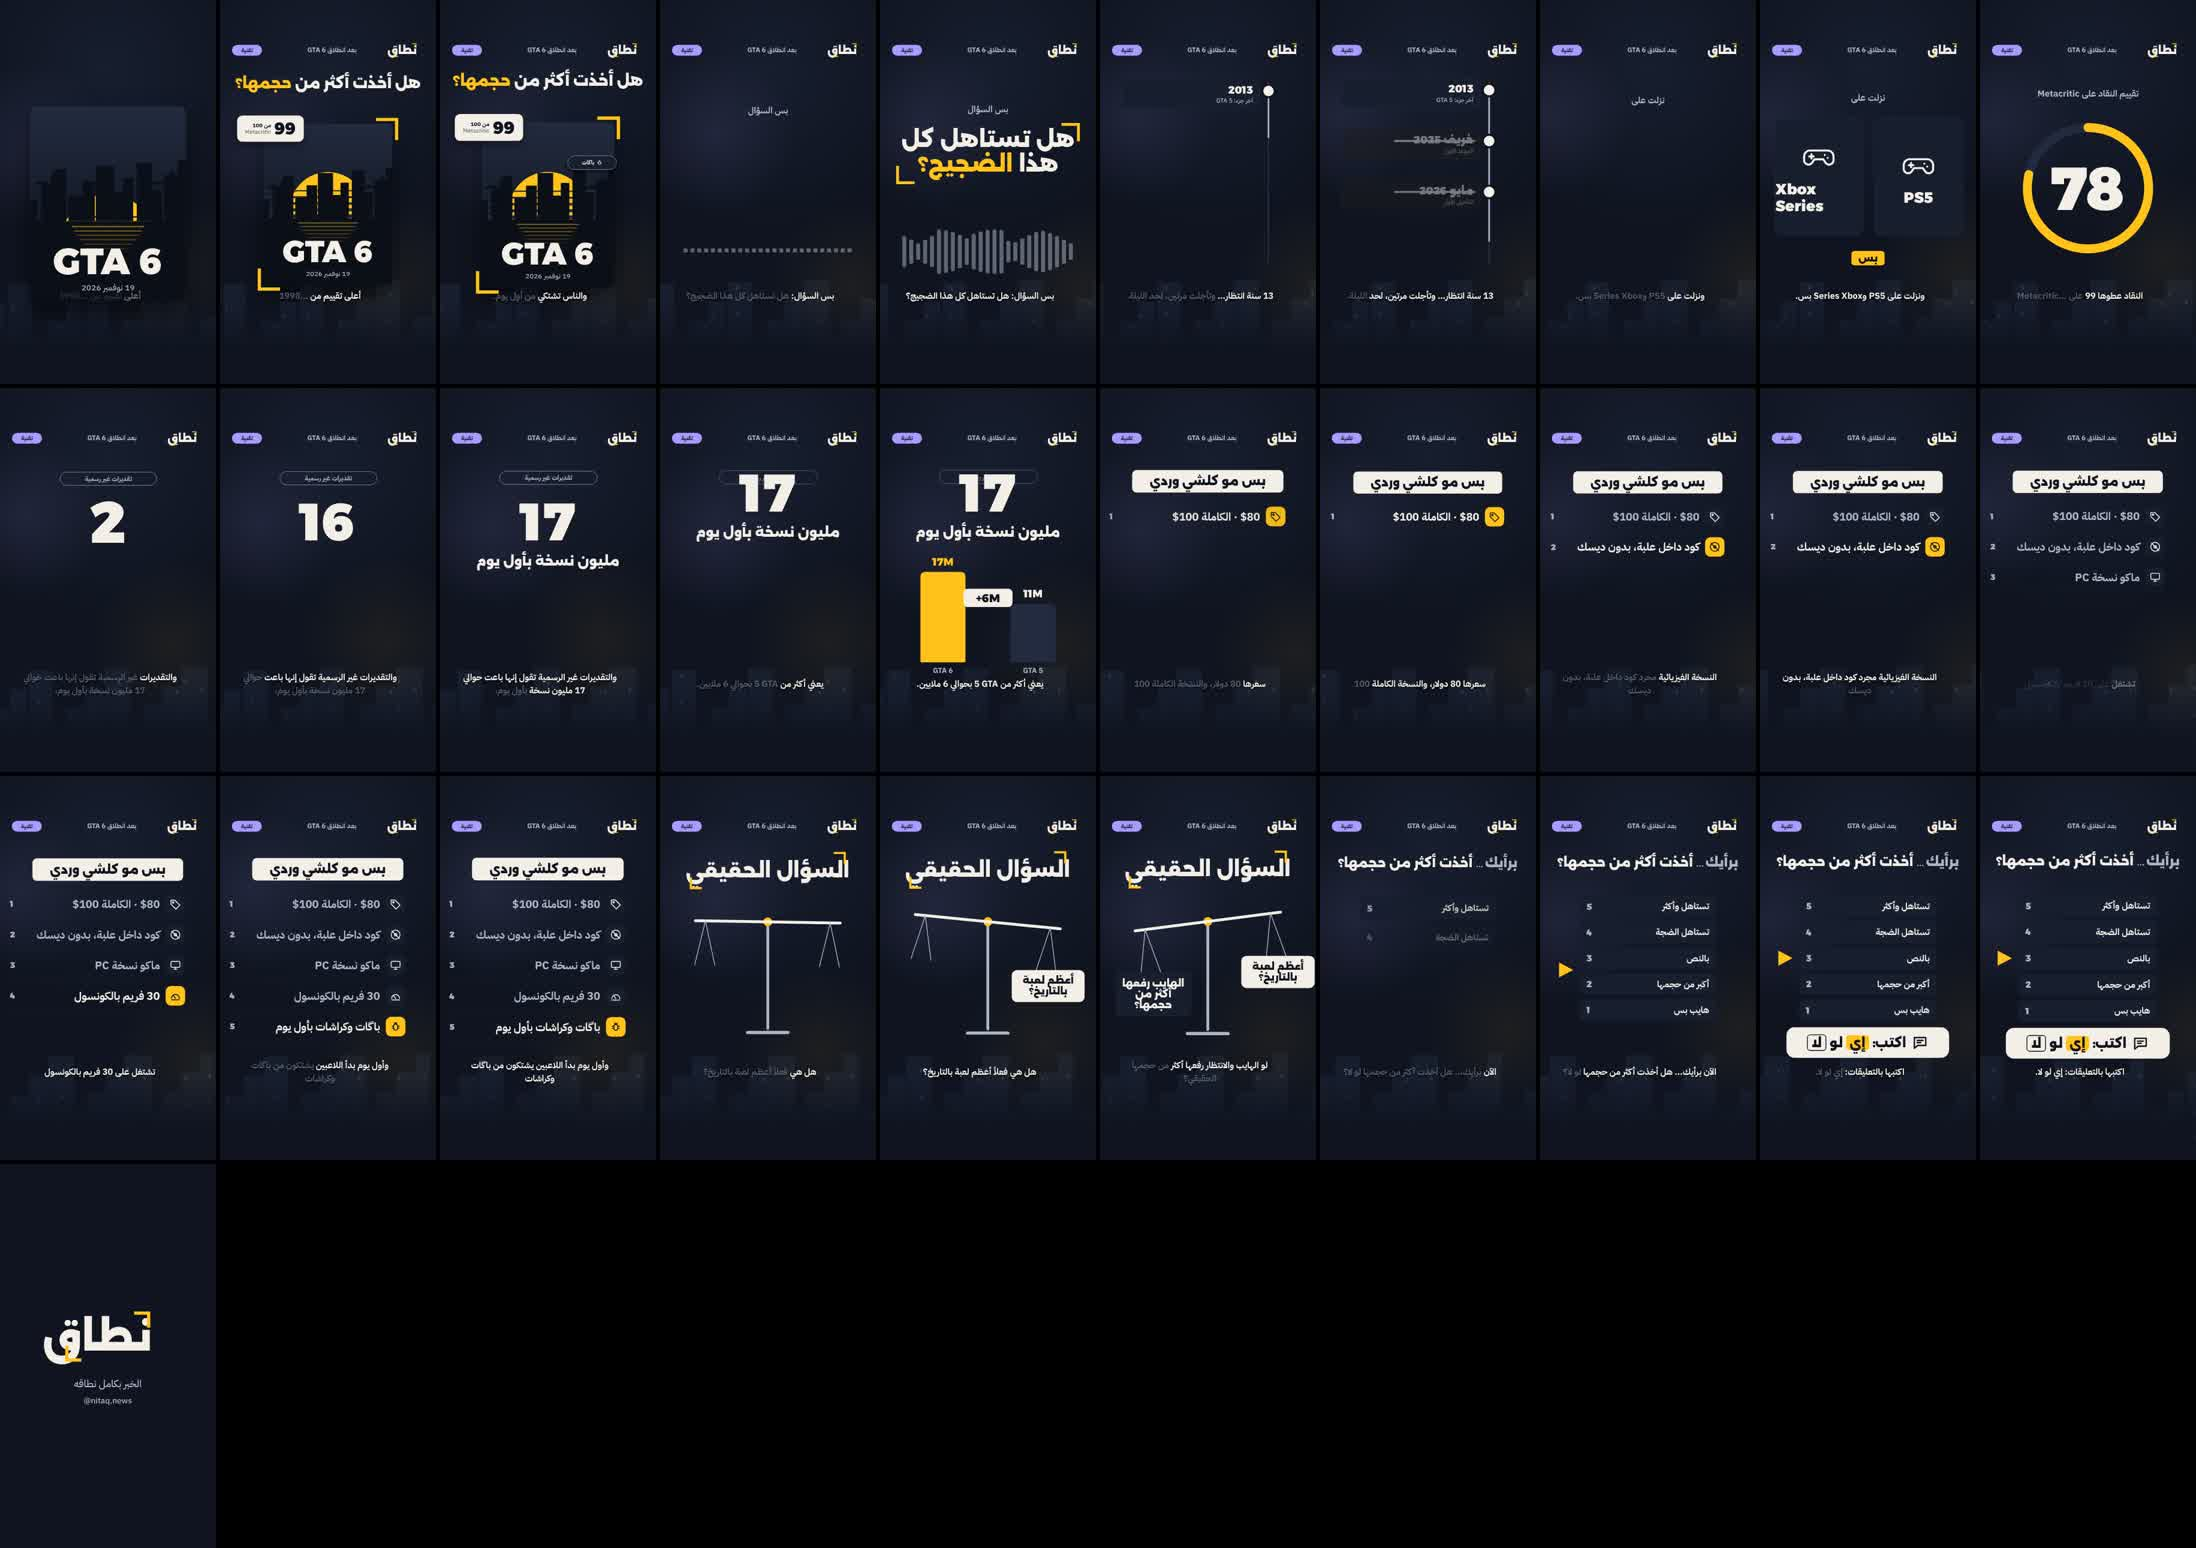
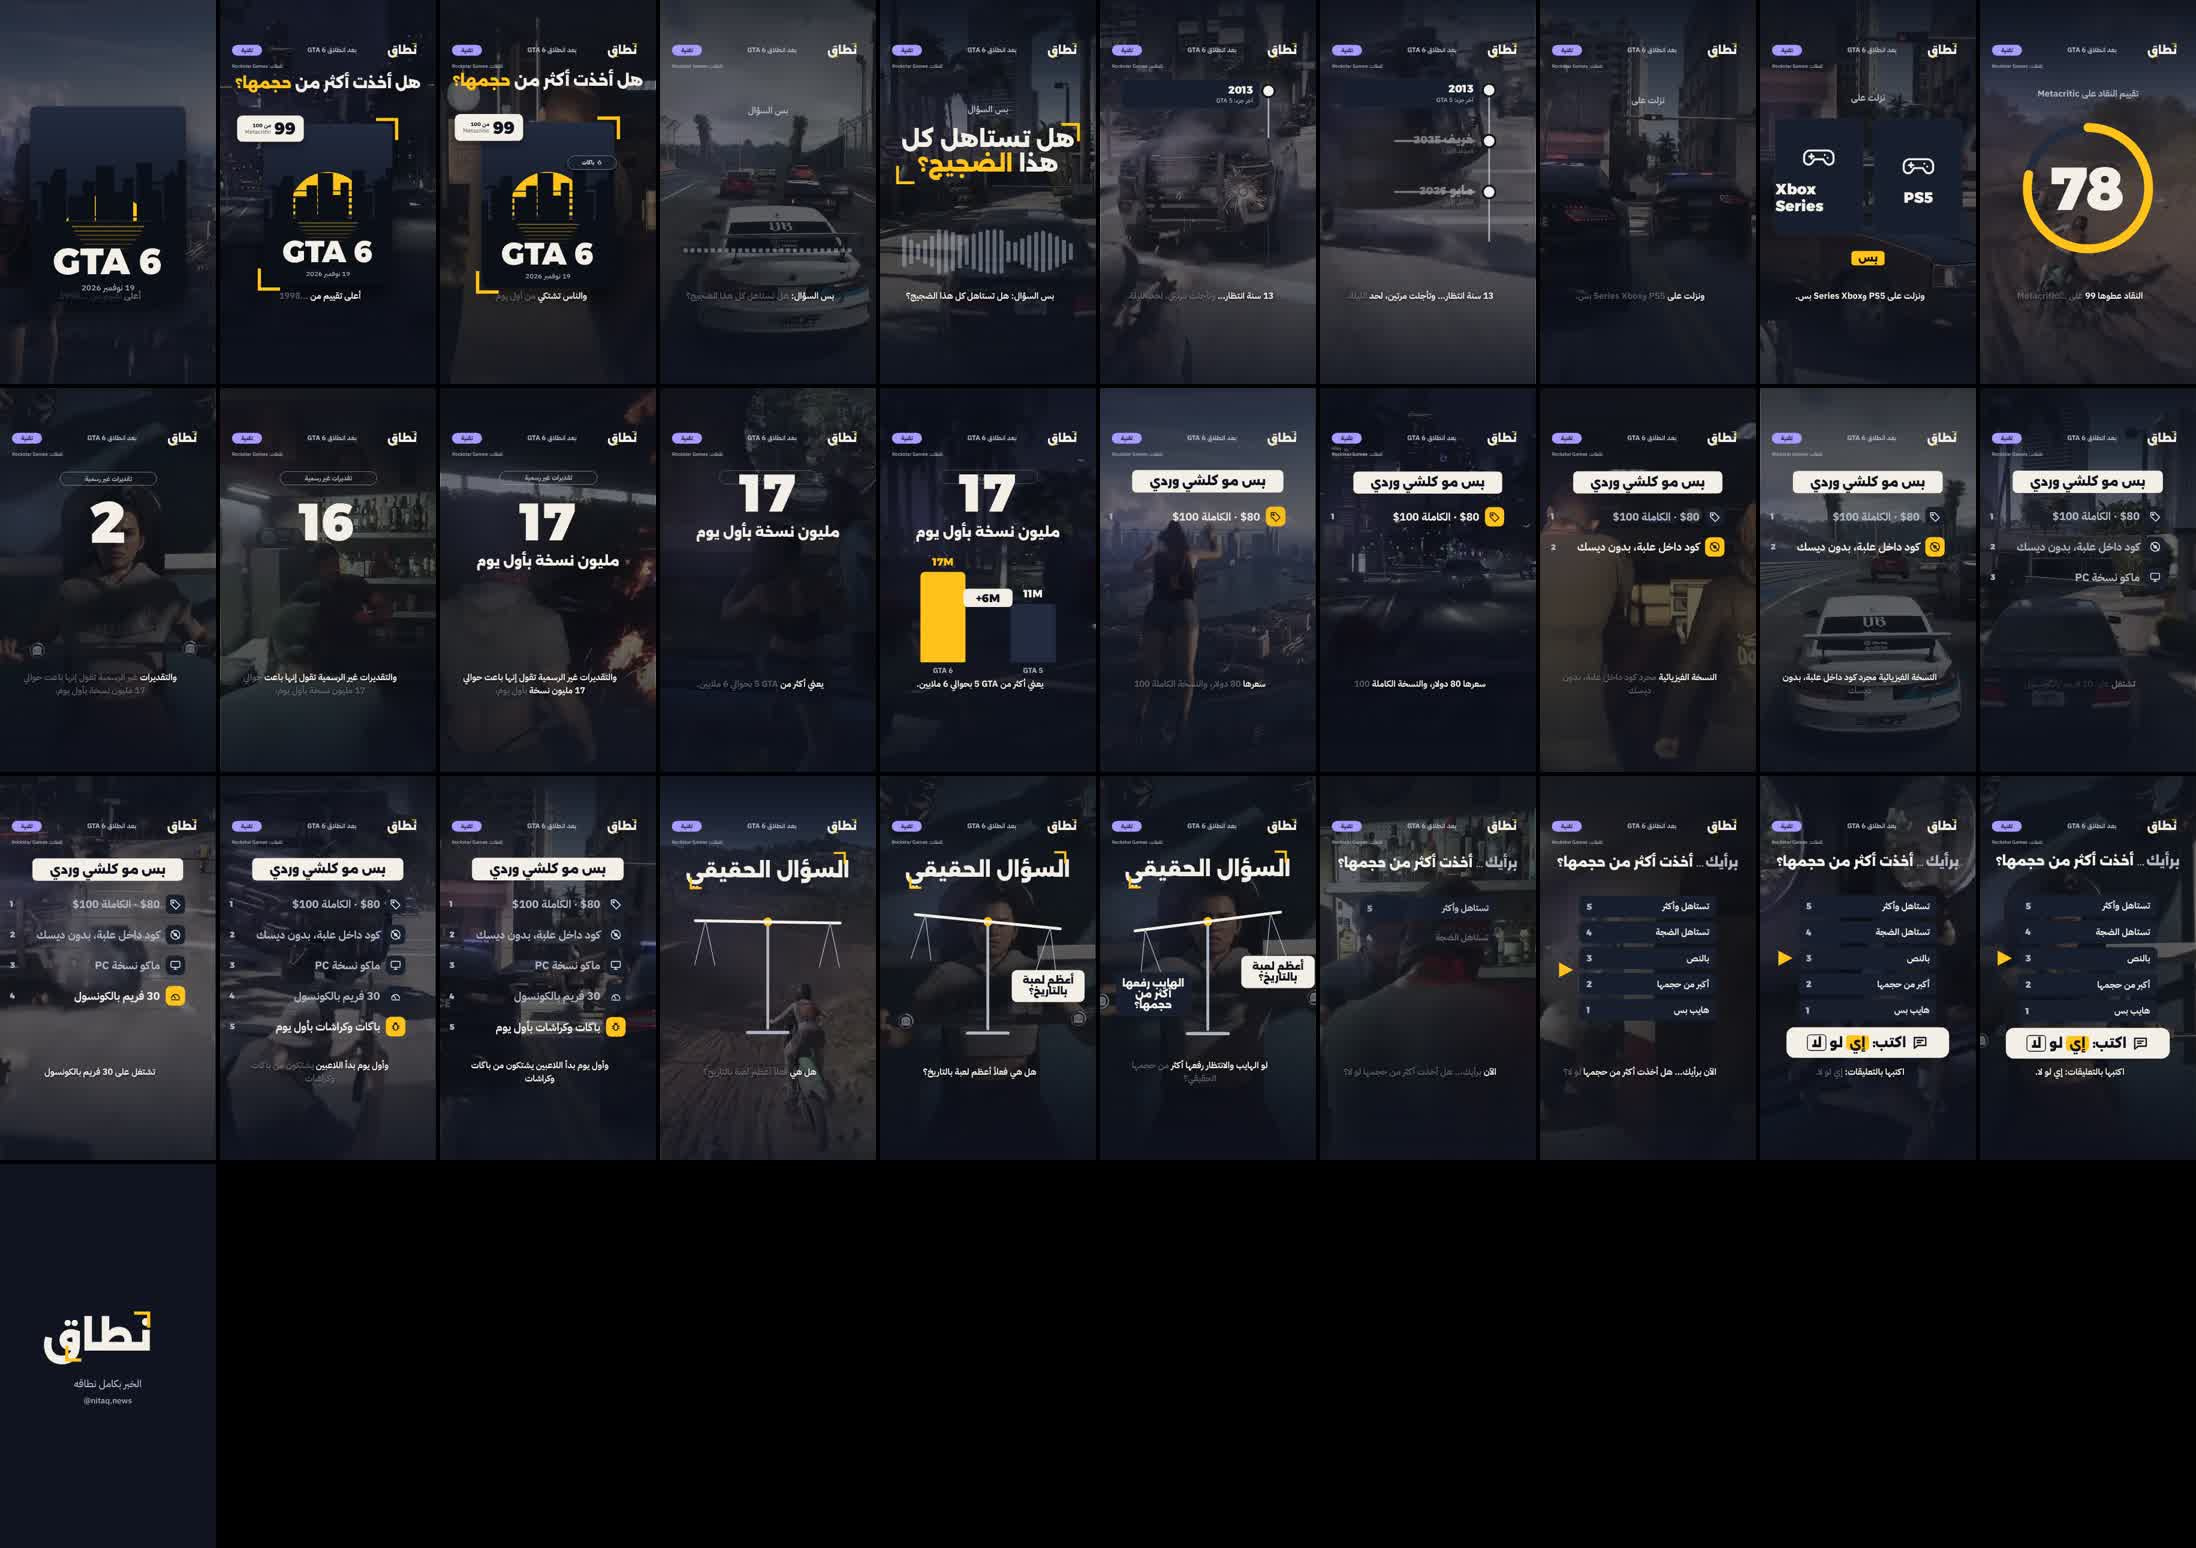
GTA 6 reel: gameplay b-roll from the official trailer under the panels (frame-exact video seek), hook opens on footage, source credit; no shots with revealing outfits
Claude-Session: https://claude.ai/code/session_01AqNRMLNh7SrKwPZHKcvV1o

diff --git a/reels/gta6-hype/reel.html b/reels/gta6-hype/reel.html
@@ -131,25 +131,38 @@ function strike(parent, x, y, w, t0) {
   return l;
 }
 
-/* ---------- 3. background: a dim night city that keeps moving (stands in for the reference's footage) ---------- */
+/* ---------- 3. background: gameplay b-roll from the official trailer, dimmed (the reference also runs footage under its text) ---------- */
 const bg = R.box(stage, 0, 0, 1080, 1920, { overflow: "hidden", background: `radial-gradient(120% 70% at 50% 18%, ${INK2} 0%, ${INK} 60%)` });
 {
-  let sky = "";
-  for (let i = 0; i < 26; i++) {
-    const bw = 70 + (i * 37) % 70, bh = 180 + (i * 97) % 380, bx = i * 95 - 40;
-    sky += `<rect x="${bx}" y="${600 - bh}" width="${bw}" height="${bh}" fill="${INK2}"/>`;
-    for (let r = 0; r < bh / 46 - 1; r++) for (let c = 0; c < bw / 30 - 1; c++)
-      if ((i * 7 + r * 3 + c * 5) % 9 === 0) sky += `<rect x="${bx + 12 + c * 28}" y="${600 - bh + 20 + r * 44}" width="10" height="16" fill="${ASH}" opacity=".18"/>`;
-  }
-  const city = R.svg(bg, 2600, 600, sky, { x: -200, y: 1290 });
+  /* gameplay b-roll from the official trailer (broll.webm, made by build_broll.py), dimmed under the panels */
+  const vid = document.createElement("video");
+  Object.assign(vid, { src: "broll.webm", muted: true, preload: "auto", playsInline: true });
+  Object.assign(vid.style, { position: "absolute", left: 0, top: 0, width: "1080px", height: "1920px", objectFit: "cover", filter: "saturate(.85)" });
+  bg.appendChild(vid);
+  const dim = R.box(bg, 0, 0, 1080, 1920, { background: `linear-gradient(rgba(15,20,32,.82) 0%, rgba(15,20,32,.58) 35%, rgba(15,20,32,.62) 65%, rgba(15,20,32,.9) 100%)` });
   const glowA = R.box(bg, -300, 200, 900, 900, { borderRadius: "50%", background: `radial-gradient(circle, rgba(169,155,255,.10), transparent 65%)` });
-  const glowB = R.box(bg, 500, 900, 900, 900, { borderRadius: "50%", background: `radial-gradient(circle, rgba(255,194,26,.06), transparent 65%)` });
-  R.box(bg, 0, 1500, 1080, 420, { background: `linear-gradient(transparent, ${INK} 60%)` });
   reel.on(t => {
-    city.style.transform = `translateX(${-(t * 14) % 950}px)`;
     glowA.style.transform = `translate(${Math.sin(t * .3) * 120}px, ${Math.cos(t * .23) * 80}px)`;
-    glowB.style.transform = `translate(${Math.cos(t * .27) * -140}px, ${Math.sin(t * .2) * 90}px)`;
+    /* panels that need a calm field (the cons list, the ladder) dim the footage a bit more */
+    dim.style.opacity = k(t, [[T[2] - .25, .4], [T[2], 1]]);   /* the hook shows the footage brighter */
   });
+  /* frame-exact video: every seek waits until the video shows that frame */
+  const vidReady = new Promise(res => { if (vid.readyState >= 2) res(); else vid.addEventListener("loadeddata", res, { once: true }); });
+  const kitSeek = reel.seek.bind(reel);
+  reel.seek = t => {
+    kitSeek(t);
+    const want = Math.min(t, (vid.duration || 1e9) - .02);
+    return vidReady.then(() => new Promise(res => {
+      if (Math.abs(vid.currentTime - want) < 1e-4) return res();
+      vid.addEventListener("seeked", () => requestAnimationFrame(() => requestAnimationFrame(res)), { once: true });
+      vid.currentTime = want;
+    }));
+  };
+  const prevReady = reel.ready;
+  reel.ready = () => Promise.all([prevReady(), vidReady]);
+  /* source credit (brand: 24 px, grey) */
+  const credit = txt(stage, 60, 312, 960, "لقطات: <span class=\"en\">Rockstar Games</span>", { fontSize: "24px", fontWeight: 500, color: ASH, textAlign: "left", zIndex: 41 }, "t b");
+  reel.on(t => { credit.style.opacity = t > ENDCARD ? 0 : clamp((t - .7) / .4); });
 }
 
 /* ---------- 4. persistent top bar: logo · series title · category badge ---------- */
@@ -173,22 +186,14 @@ const bar = R.box(stage, 60, 200, 960, 100, { zIndex: 40 });
   const spans = [...q.children];
   reel.on(t => spans.forEach((sp, i) => { const p = pop(t, .05 + i * .11, .3); sp.style.opacity = clamp(p * 2); sp.style.transform = `translateY(${(1 - p) * -50}px)`; }));
   const cw = 640, ch = 800, cx = 220, cy = 620;
-  const cov = R.box(s, cx, cy, cw, ch, { borderRadius: "28px", overflow: "hidden", background: `linear-gradient(${INK3}, ${INK} 75%)`, boxShadow: "0 40px 90px rgba(0,0,0,.55)" });
-  const sun = R.svg(cov, cw, ch, `<defs><clipPath id="sunc"><rect x="0" y="0" width="${cw}" height="470"/></clipPath></defs>
-    <g clip-path="url(#sunc)"><circle cx="${cw / 2}" cy="430" r="190" fill="${SIG}"/>
-    ${[0, 1, 2, 3, 4].map(i => `<rect x="0" y="${330 + i * 30}" width="${cw}" height="${6 + i * 3}" fill="${INK3}"/>`).join("")}</g>`);
-  let towers = "";
-  for (let i = 0; i < 12; i++) { const bw = 40 + (i * 23) % 40, bh = 90 + (i * 61) % 170; towers += `<rect x="${i * 56 - 10}" y="${470 - bh}" width="${bw}" height="${bh}" fill="#0b0f18"/>`; }
-  const palms = [80, 560].map(px => `<path d="M${px} 470 C${px + 6} 400 ${px - 4} 360 ${px + 6} 320" stroke="#0b0f18" stroke-width="10" fill="none"/><g fill="#0b0f18"><path d="M${px + 6} 320 c-30 -26 -64 -14 -76 6 c30 -12 52 -6 76 2z"/><path d="M${px + 6} 320 c30 -30 66 -20 76 0 c-30 -12 -52 -4 -76 4z"/><path d="M${px + 6} 320 c-6 -36 14 -58 34 -62 c-14 20 -18 40 -30 64z"/></g>`).join("");
-  R.svg(cov, cw, ch, `${towers}${palms}<rect y="470" width="${cw}" height="330" fill="#0b0f18"/>
-    ${[0, 1, 2, 3, 4, 5].map(i => `<rect x="${cw / 2 - 150 + i * 12}" y="${490 + i * 18}" width="${300 - i * 24}" height="5" rx="2" fill="${SIG}" opacity="${.5 - i * .07}"/>`).join("")}`);
+  /* the cover is a window onto the footage: no drawn art, just a dark foot for the title */
+  const cov = R.box(s, cx, cy, cw, ch, { borderRadius: "28px", overflow: "hidden", background: `linear-gradient(rgba(11,15,24,0) 45%, rgba(11,15,24,.92) 88%)`, boxShadow: "0 0 0 3px rgba(243,239,230,.18)" });
   txt(cov, 0, 560, cw, `<span class="en">GTA 6</span>`, { fontSize: "150px", lineHeight: "1" });
   const date = txt(cov, 0, 718, cw, "19 نوفمبر 2026", { fontSize: "34px", fontWeight: 500, color: ASH }, "t b");
   frame(s, cx, cy, cw, ch, .12, { len: 110, th: 16, gap: 28 });
   reel.on(t => {
     const p = ease.soft(clamp(t / .6));
     cov.style.transform = `scale(${1.22 - .22 * p})`; cov.style.opacity = 1;
-    sun.style.transform = `translateY(${(1 - ease.out(clamp(t / 1.6))) * 120}px)`;
   });
   /* "أعلى تقييم": the 99 chip lands on the cover corner */
   const chip = R.box(s, 90, 580, 330, 130, { display: "flex", alignItems: "center", justifyContent: "center", gap: "18px", background: PAPER, borderRadius: "26px", boxShadow: "0 20px 40px rgba(0,0,0,.4)", direction: "rtl" });

diff --git a/reels/gta6-hype/build_broll.py b/reels/gta6-hype/build_broll.py
@@ -1,0 +1,35 @@
+"""Background b-roll for the reel: gameplay shots from the official trailer (src/trailer.mp4),
+cropped to 9:16, cut every ~2.5 s, as an all-keyframe VP9 webm so the page can seek it frame-exactly.
+usage: python build_broll.py <seconds>   -> broll.webm
+Only gameplay is used (no text cards, logos or hardware), and no shot with revealing outfits."""
+import subprocess, sys, os
+secs = float(sys.argv[1])
+# (start, length, crop centre 0..1 across the 1280 px width)  - order chosen for the story
+# Only shots without revealing outfits (checked frame by frame): cars, streets, police, the bar, the store.
+SHOTS = [
+    (8.20, 2.0, .45),   # shoot-out on the road      (hook)
+    (26.45, 2.0, .50),  # race
+    (3.35, 1.6, .55),   # bar (fully clothed; crop fixed, keeps the rating badge out)
+    (31.60, 1.2, .50),  # police street (stops before the scooter riders)
+    (34.45, 1.4, .45),  # car on the street
+    (10.30, 2.0, .62),  # shoot-out, the truck rolls
+    (40.05, 1.8, .45),  # store
+]
+SLOW = 1.25                # play a little slower so the few shots fill the reel
+CROPS = [0, .18, -.18]     # each pass moves the 9:16 window so repeats look different
+W, H = 405, 720            # 9:16 window inside the 1280x720 trailer
+parts, t, i = [], 0.0, 0
+while t < secs:
+    a, d, c = SHOTS[i % len(SHOTS)]
+    if a != 3.35: c = min(max(c + CROPS[(i // len(SHOTS)) % len(CROPS)], .16), .84)
+    d = min(d, (secs - t + .05) / SLOW)
+    x = int(min(max(c * 1280 - W / 2, 0), 1280 - W))
+    parts.append((a, d, x)); t += d * SLOW; i += 1
+fc, ins = [], []
+for k, (a, d, x) in enumerate(parts):
+    ins += ["-ss", f"{a:.3f}", "-t", f"{d:.3f}", "-i", "src/trailer.mp4"]
+    fc.append(f"[{k}:v]crop={W}:{H}:{x}:0,scale=540:960,setsar=1,setpts=(PTS-STARTPTS)*{SLOW},fps=30[v{k}]")
+fc.append("".join(f"[v{k}]" for k in range(len(parts))) + f"concat=n={len(parts)}:v=1:a=0,trim=0:{secs:.3f}[out]")
+subprocess.run(["ffmpeg", "-v", "error", "-y", *ins, "-filter_complex", ";".join(fc), "-map", "[out]", "-an",
+                "-c:v", "libvpx-vp9", "-g", "1", "-crf", "36", "-b:v", "0", "-deadline", "good", "-cpu-used", "4", "-row-mt", "1", "broll.webm"], check=True)
+print(f"{len(parts)} shots, {secs:.1f} s -> broll.webm ({os.path.getsize('broll.webm') / 1e6:.1f} MB)")
